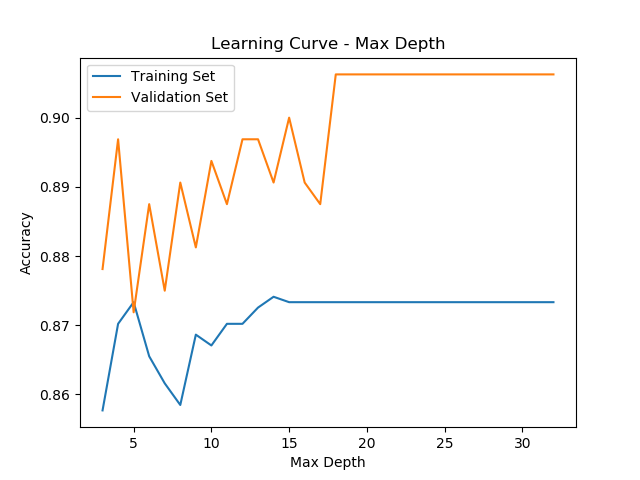
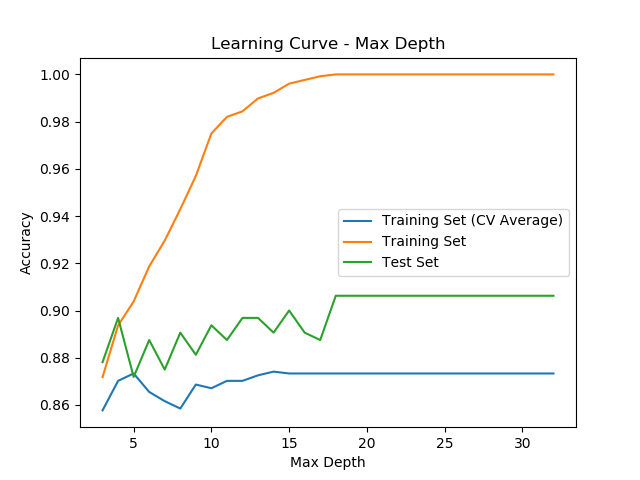
adding lots of updates to graphing helpers

diff --git a/solution/classifiers/helpers.py b/solution/classifiers/helpers.py
@@ -76,9 +76,11 @@ def produce_model_performance_summary(best_model, x_test, y_test, y_pred,
 
 
 @timer
-def plot_learning_curve_vs_train_size(classifier, dataframe, feature_cols, target_col, output_location,
-                                      training_label='Training Set', validation_label='Cross Validation Set',
-                                      lin_space=np.linspace(0.1, 1.0, num=10)):
+def plot_learning_curve_vs_train_size(
+        classifier, dataframe, feature_cols, target_col, output_location,
+        training_label='Training Set', validation_label='Test Set',
+        title='Learning Curve - Training Set Size',
+        lin_space=np.linspace(0.1, 1.0, num=10)):
     train_sizes, train_scores, validation_scores = learning_curve(
         classifier,
         dataframe[feature_cols],
@@ -88,7 +90,7 @@ def plot_learning_curve_vs_train_size(classifier, dataframe, feature_cols, targe
     )
 
     plt.figure()
-    plt.title("Learning Curve - Training Set Size")
+    plt.title(title)
 
     plt.xlabel("Number of Training Samples")
     plt.ylabel("Accuracy")
@@ -138,10 +140,11 @@ def plot_learning_curve_vs_param_train_and_test(
     plt.title("Learning Curve - %s" % param_name)
     plt.xlabel(param_name)
     plt.ylabel(measure_graph_label)
-    plt.plot(param_values, grid_search.cv_results_[measure_type], label='Training Set')
+    plt.plot(param_values, grid_search.cv_results_[measure_type], label='Training Set (CV Average)')
 
     if x_test is not None and y_test is not None:
-        scores = []
+        train_scores = []
+        test_scores = []
         base_kwargs = classifier.get_params()
         for val in param_values:
             base_kwargs[param] = val
@@ -149,11 +152,14 @@ def plot_learning_curve_vs_param_train_and_test(
 
             predictor.fit(x_train, y_train)
 
-            y_pred = predictor.predict(x_test)
-            scores.append(accuracy_score(y_test, y_pred))
-            del base_kwargs[param]
+            y_train_pred = predictor.predict(x_train)
+            train_scores.append(accuracy_score(y_train, y_train_pred))
 
-        plt.plot(param_values, scores, label='Validation Set')
+            y_pred = predictor.predict(x_test)
+            test_scores.append(accuracy_score(y_test, y_pred))
+            del base_kwargs[param]
+        plt.plot(param_values, train_scores, label='Training Set')
+        plt.plot(param_values, test_scores, label='Test Set')
     plt.legend(loc='best')
     plt.savefig(output_location)
 

diff --git a/solution/classifiers/census_svm.py b/solution/classifiers/census_svm.py
@@ -34,7 +34,7 @@ feature_cols = ['age_num', 'education-num', 'marital-status_Single',
                 'capital-loss', 'sex_Male', 'from_united_states']
 
 kfold = KFold(n_splits=5)
-cls = SVC()
+cls = SVC()  # rbf by default
 
 # Plot the learning curve vs train size.
 # Helps determine the train vs test split split ratio
@@ -43,8 +43,19 @@ helpers.plot_learning_curve_vs_train_size(
     df,
     feature_cols,
     'income_num',
-    output_location='census_output/svm_num_samples_learning_curve.png'
+    title='Learning Curve - Number of Samples (Kernel=RBF)',
+    output_location='census_output/svm_rbf_num_samples_learning_curve.png'
 )
+
+# # linear kernel for comparison
+# helpers.plot_learning_curve_vs_train_size(
+#     SVC(kernel='linear'),
+#     df,
+#     feature_cols,
+#     'income_num',
+#     title='Learning Curve - Number of Samples (Kernel=Linear)',
+#     output_location='census_output/svm_linear_num_samples_learning_curve.png'
+# )
 
 x_train, x_test, y_train, y_test = train_test_split(
     df[feature_cols],
@@ -54,8 +65,9 @@ x_train, x_test, y_train, y_test = train_test_split(
 )
 
 # Plot the learning curve for max iter vs mean test score
+# kernel = rbf (radial basis function)
 helpers.plot_learning_curve_vs_param_train_and_test(
-    SVC(),
+    SVC(kernel='rbf'),
     x_train,
     y_train,
     param='max_iter',
@@ -63,7 +75,21 @@ helpers.plot_learning_curve_vs_param_train_and_test(
     x_test=x_test,
     y_test=y_test,
     param_name='Max Iterations',
-    output_location='census_output/svm_max_iter_learning_curve.png'
+    output_location='census_output/svm_rbf_max_iter_learning_curve.png'
+)
+
+# Plot the learning curve for max iter vs mean test score
+# kernel = linear
+helpers.plot_learning_curve_vs_param_train_and_test(
+    SVC(kernel='linear'),
+    x_train,
+    y_train,
+    param='max_iter',
+    param_values=[100, 500, 1000, 1500, 2000, 3000, 4000, 5000],
+    x_test=x_test,
+    y_test=y_test,
+    param_name='Max Iterations',
+    output_location='census_output/svm_linear_max_iter_learning_curve.png'
 )
 
 # Find the best model via GridSearchCV

diff --git a/solution/classifiers/wine_svm.py b/solution/classifiers/wine_svm.py
@@ -38,7 +38,17 @@ helpers.plot_learning_curve_vs_train_size(
     df,
     feature_cols,
     'quality_num',
-    output_location='wine_output/svm_num_samples_learning_curve.png'
+    title='Learning Curve - Number of Samples (Kernel=Linear)',
+    output_location='wine_output/svm_rbf_num_samples_learning_curve.png'
+)
+
+helpers.plot_learning_curve_vs_train_size(
+    SVC(kernel='linear'),
+    df,
+    feature_cols,
+    'quality_num',
+    title='Learning Curve - Number of Samples (Kernel=Linear)',
+    output_location='wine_output/svm_linear_num_samples_learning_curve.png'
 )
 
 x_train, x_test, y_train, y_test = train_test_split(
@@ -49,8 +59,9 @@ x_train, x_test, y_train, y_test = train_test_split(
 )
 
 # Plot the learning curve for max iter vs mean test score
+# kernel = rbf (radial basis function)
 helpers.plot_learning_curve_vs_param_train_and_test(
-    SVC(),
+    SVC(kernel='rbf'),
     x_train,
     y_train,
     param='max_iter',
@@ -58,9 +69,25 @@ helpers.plot_learning_curve_vs_param_train_and_test(
     x_test=x_test,
     y_test=y_test,
     cv=3,
-    param_name='Max Iterations',
+    param_name='(Kernel=RBF) Max Iterations',
     measure_type='mean_test_score',
-    output_location='wine_output/svm_max_iter_learning_curve.png'
+    output_location='wine_output/svm_rbf_max_iter_learning_curve.png'
+)
+
+# Plot the learning curve for max iter vs mean test score
+# kernel = linear
+helpers.plot_learning_curve_vs_param_train_and_test(
+    SVC(kernel='linear'),
+    x_train,
+    y_train,
+    param='max_iter',
+    param_values=list(range(50, 650, 50)),
+    x_test=x_test,
+    y_test=y_test,
+    cv=3,
+    param_name='(Kernel=Linear) Max Iterations',
+    measure_type='mean_test_score',
+    output_location='wine_output/svm_linear_max_iter_learning_curve.png'
 )
 
 # Find the best model via GridSearchCV

diff --git a/solution/classifiers/wine_boosting.py b/solution/classifiers/wine_boosting.py
@@ -26,6 +26,7 @@ feature_cols = ['fixed acidity', 'volatile acidity', 'citric acid', 'residual su
                 'free sulfur dioxide', 'total sulfur dioxide', 'density', 'pH', 'sulphates', 'alcohol']
 
 kfold = KFold(n_splits=3)
+# defaults to weak learner DecisionTreeClassifier with max_depth=1
 cls = cls = AdaBoostClassifier()
 
 # Plot the learning curve vs train size.
@@ -46,16 +47,16 @@ x_train, x_test, y_train, y_test = train_test_split(
 )
 
 # Plot the learning curve for max iter vs mean test score
-helpers.plot_learning_curve_vs_param(
+helpers.plot_learning_curve_vs_param_train_and_test(
     AdaBoostClassifier(),
     x_train,
     y_train,
-    param_grid={
-        'n_estimators': [10, 20, 30, 40, 50, 60, 70, 80, 90, 100],
-    },
+    x_test=x_test,
+    y_test=y_test,
+    param='n_estimators',
+    param_values=[10, 20, 30, 40, 50, 60, 70, 80, 90, 100],
     cv=3,
     param_name='N Estimators',
-    param_range=[10, 20, 30, 40, 50, 60, 70, 80, 90, 100],
     measure_type='mean_test_score',
     output_location='wine_output/boost_n_estimators_learning_curve.png'
 )

diff --git a/solution/classifiers/wine_knn.py b/solution/classifiers/wine_knn.py
@@ -46,23 +46,23 @@ x_train, x_test, y_train, y_test = train_test_split(
 )
 
 # Plot the learning curve for max iter vs mean test score
-helpers.plot_learning_curve_vs_param(
+helpers.plot_learning_curve_vs_param_train_and_test(
     KNeighborsClassifier(),
     x_train,
     y_train,
-    param_grid={
-        'n_neighbors': [5, 10, 20, 30, 40, 50, 60, 70, 80, 90, 100],
-    },
-    cv=3,
+    x_test=x_test,
+    y_test=y_test,
+    param='n_neighbors',
+    param_values=[5, 10, 20, 30, 40, 50, 60, 70, 80, 90, 100],
     param_name='N Neighbors',
-    param_range=[5, 10, 20, 30, 40, 50, 60, 70, 80, 90, 100],
+    cv=3,
     measure_type='mean_test_score',
     output_location='wine_output/knn_n_neighbors_learning_curve.png'
 )
 
 # Find the best model via GridSearchCV
 grid_search = GridSearchCV(
-    estimator=KNeighborsClassifier(),
+    estimator=KNeighborsClassifier(weights='distance'),
     param_grid={
         'n_neighbors': [5, 10, 20, 30, 40, 50, 60, 70, 80, 90, 100],
     },

diff --git a/solution/classifiers/wine_neural_network.py b/solution/classifiers/wine_neural_network.py
@@ -103,6 +103,7 @@ helpers.produce_model_performance_summary(
     x_test,
     y_test,
     y_pred,
+    grid_search=grid_search,
     output_location='wine_output/neural_net_summary.txt',
     cv=3,
     scoring='accuracy'

diff --git a/installation.md b/installation.md
@@ -2,6 +2,12 @@
 
 # Installation
 
+NOTE: The installation relies on Anaconda.
+
+### Prerequisites
+ - [Anaconda](https://www.anaconda.com/)
+    - please download the anaconda appropriate for your OS.
+
 ```bash
 # make sure to install graphviz
 sudo apt-get install graphviz
